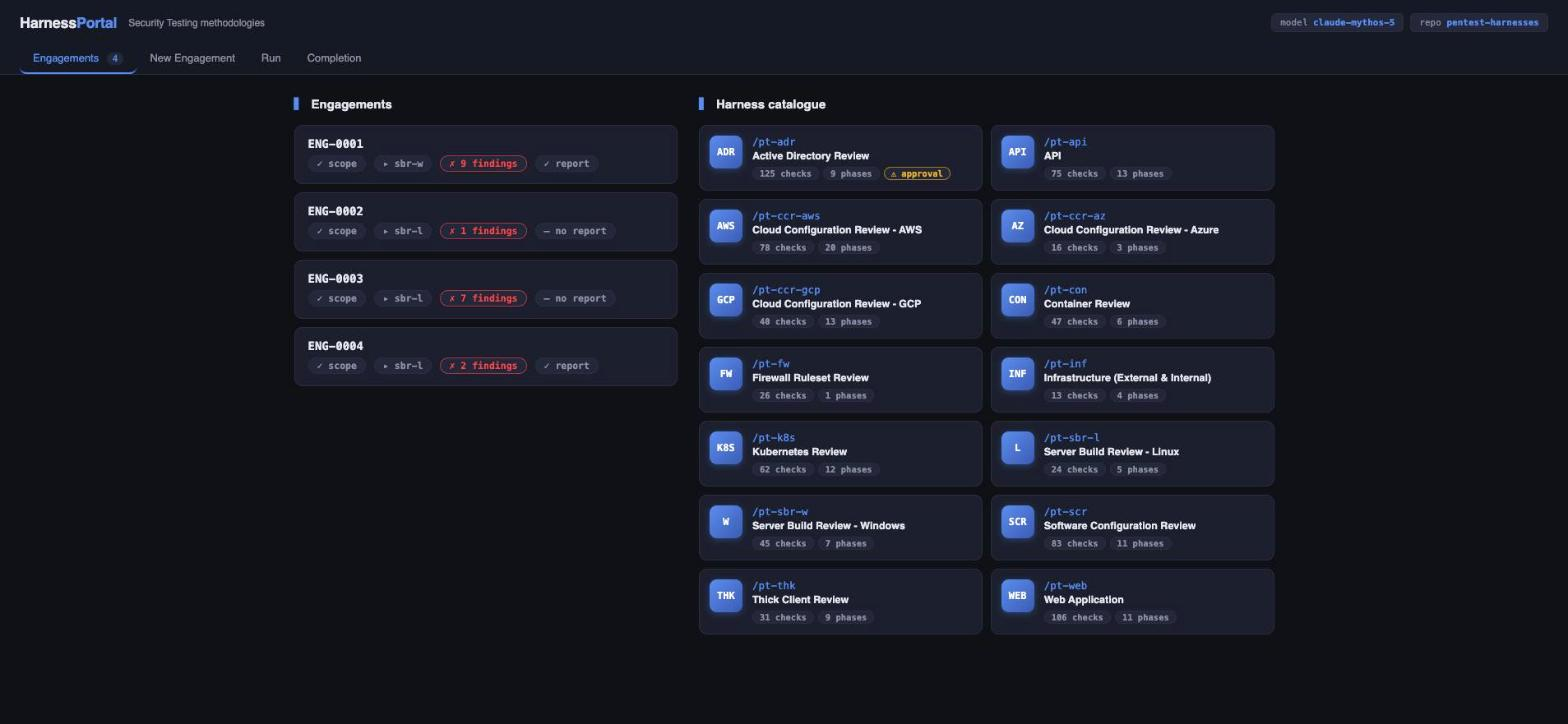
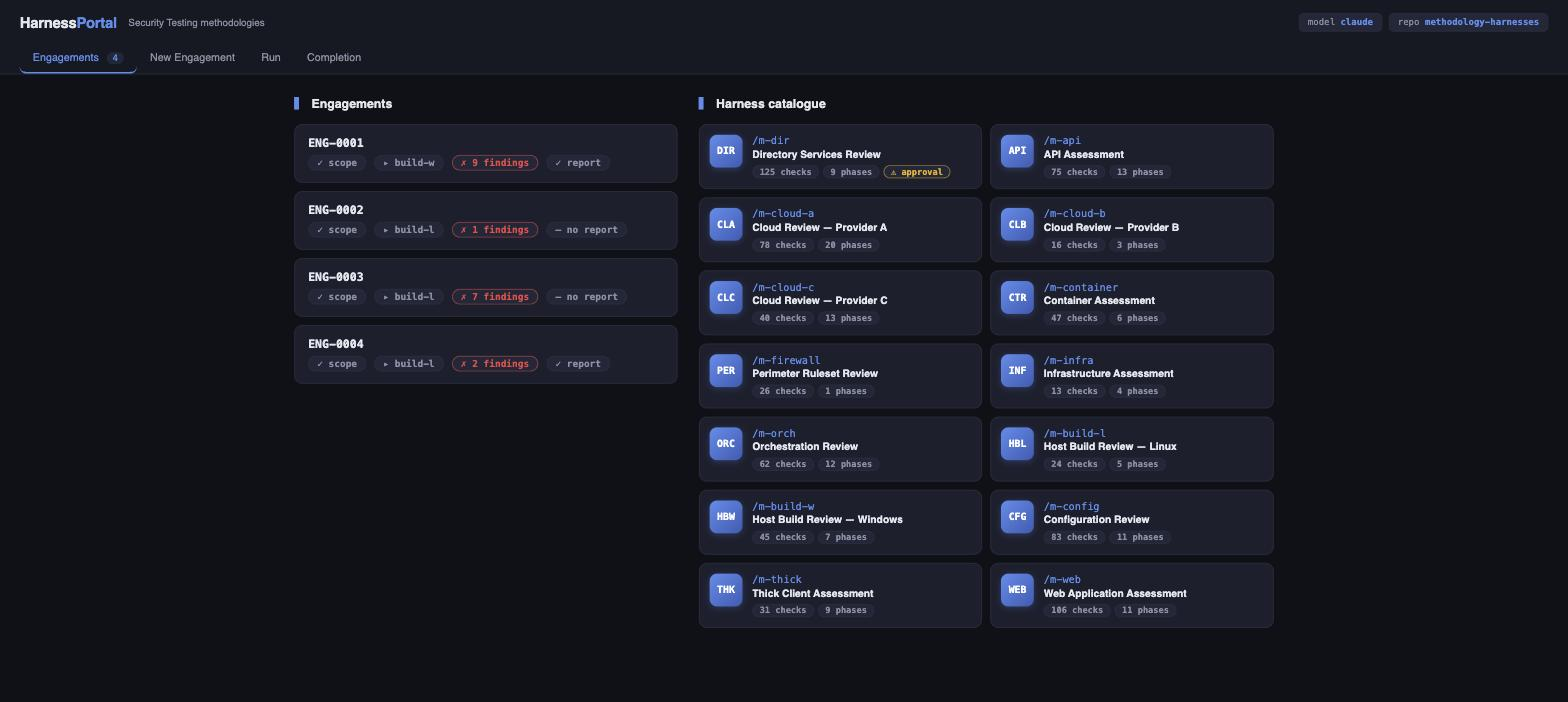
Genericise methodology names and the model badge
The harness catalogue now shows neutral methodology names and slugs rather
than a specific internal scheme, and the model badge in both the harness
and ReconPro screenshots reads "claude" instead of naming a build.

diff --git a/pentest-harness.html b/pentest-harness.html
@@ -44,7 +44,7 @@
 
     <h2 class="section-header">&gt; The portal</h2>
     <img src="assets/images/pentest-harness.jpg" class="project-image"
-         alt="The Harness Portal: a list of engagements on the left each showing scope, harness, finding count and report status, and the harness catalogue on the right listing methodologies such as Active Directory Review with 125 checks across 9 phases and an approval gate, Web Application with 106 checks, and Software Configuration Review with 83">
+         alt="The Harness Portal: a list of engagements on the left each showing scope, harness, finding count and report status, and the harness catalogue on the right listing fourteen methodologies such as a Directory Services Review with 125 checks across 9 phases and an approval gate, a Web Application Assessment with 106 checks, and a Configuration Review with 83">
 
     <p class="text-block">
         Every methodology I test against exists as a document — a spreadsheet of checks grouped
@@ -57,11 +57,12 @@
     <p class="text-block">
         The single decision that makes this work: nobody writes the harnesses. A generator reads
         the methodology spreadsheet and emits one skill per tab, plus a YAML checklist per
-        methodology, plus per-harness documentation. Fourteen methodologies came out the other
-        side — Active Directory Review at 125 checks across 9 phases, Web Application at 106
-        across 11, Software Configuration Review at 83, Cloud Configuration Review split per
-        provider, plus API, containers, Kubernetes, firewall rulesets, infrastructure, thick
-        client, and Windows and Linux build reviews.
+        methodology, plus per-harness documentation. Fourteen came out the other side — a
+        Directory Services Review at 125 checks across 9 phases, a Web Application Assessment at
+        106 across 11, a Configuration Review at 83, cloud reviews split per provider, plus API,
+        containers, orchestration, perimeter rulesets, infrastructure, thick client, and Windows
+        and Linux host build reviews. (Names and references here are generic stand-ins; the
+        structure is what matters.)
     </p>
     <p class="text-block">
         When the methodology is revised, you re-run the generator. Files carrying a
@@ -150,7 +151,7 @@
         <a href="projects.html">Projects</a>
         <a href="blog/index.html">Blog</a>
     </div>
-    <p class="footer-note">Engagement data stays local. Screenshot uses placeholder references.</p>
+    <p class="footer-note">Engagement data stays local. Screenshot uses generic methodology names and placeholder references.</p>
 </footer>
 
 <script src="assets/js/main.js"></script>
